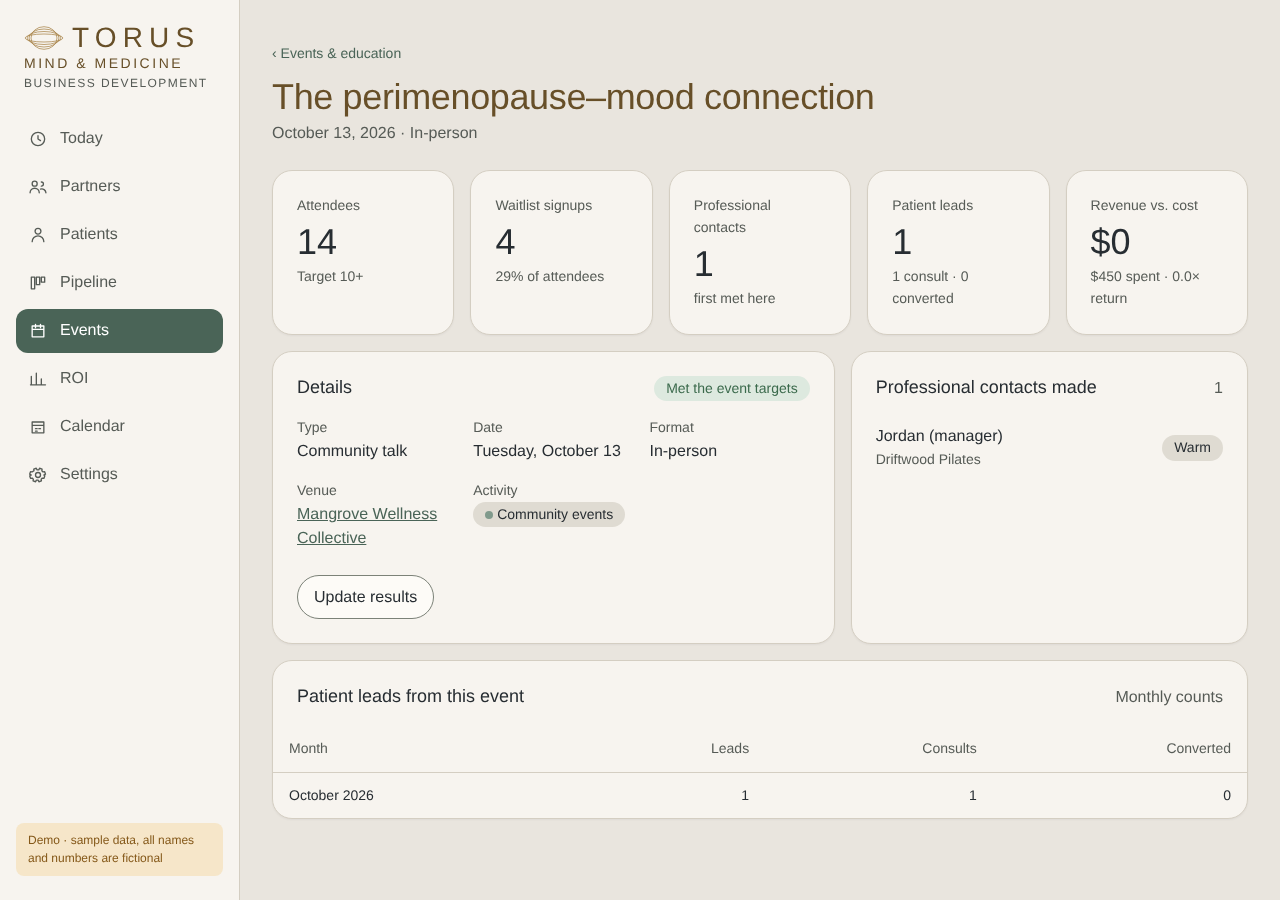
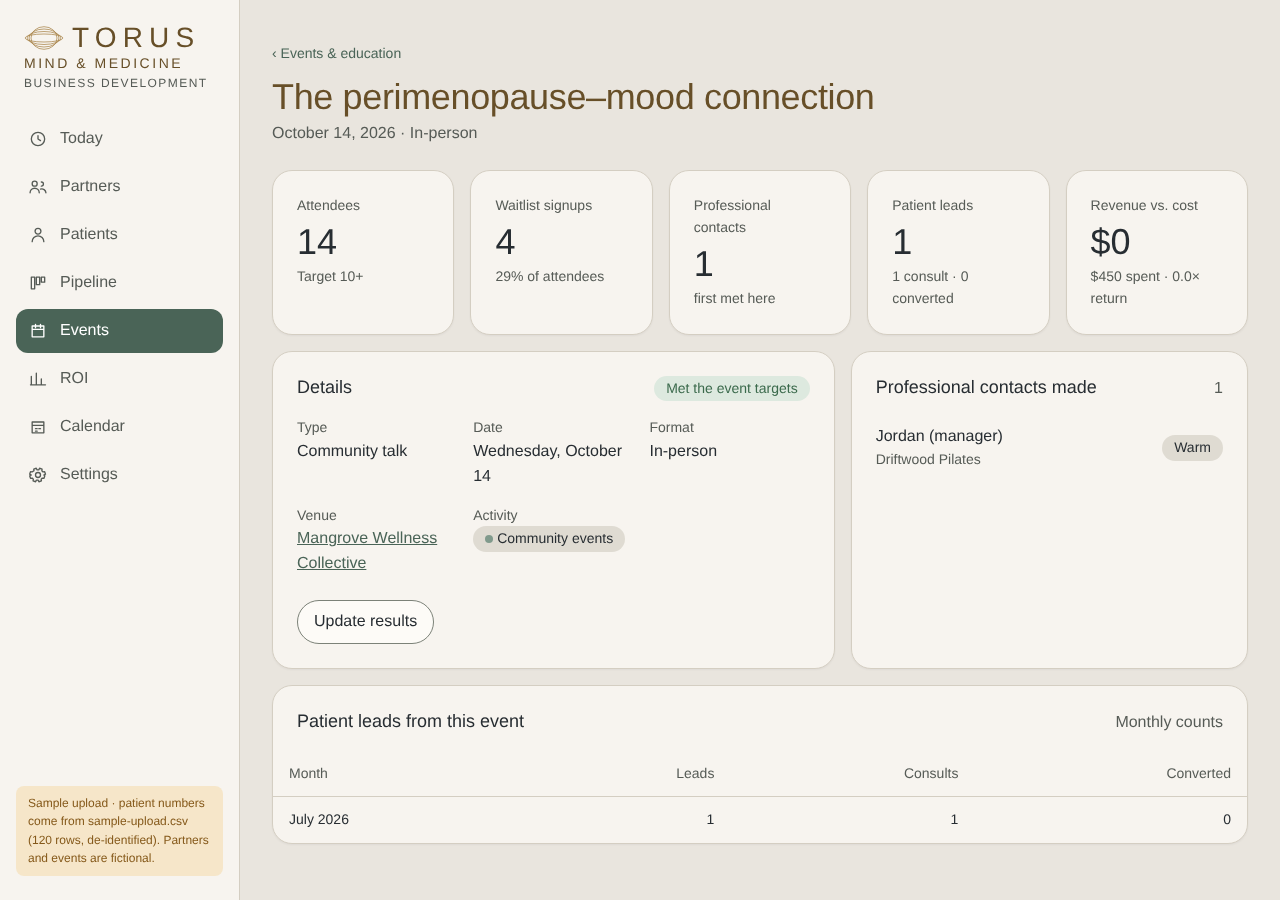
Sample-upload demo branch
Copy of the demo that loads its patient numbers from a de-identified sample
IntakeQ export (dashboard/sample-upload.csv, fictional) through the same import
the team will use. main is unchanged.

- Import: shared column guessing and aggregation; reads a 'Came in via' column,
  month-only dates and yes/no consult columns.
- Sources: Psychology Today, Not recorded; channel: Not recorded.
- Demo config can preload counts or start blank with given partners.
- Tests now serve the app over local HTTP.

Claude-Session: https://claude.ai/code/session_016Broc13AmVu7DcJiKXFPp3

diff --git a/dashboard/app.js b/dashboard/app.js
@@ -34,8 +34,8 @@
     { id: 'D', name: 'Digital / direct', long: 'Digital / direct', color: 'var(--chart-6)' },
   ];
   const act = (id) => ACTIVITIES.find((a) => a.id === id) || ACTIVITIES[5];
-  const SOURCES = ['Provider referral', 'Community event', 'Provider education event', 'Social media', 'Google / organic search', 'Email (Flodesk)', 'Word of mouth', 'Direct walk-in', 'Shari Retreats', 'Shari Yoga', 'Avonny', 'Other'];
-  const CHANNELS = ['Discovery form (website)', 'Phone call', 'Email', 'Provider referral form', 'At an event', 'Walk-in'];
+  const SOURCES = ['Provider referral', 'Community event', 'Provider education event', 'Social media', 'Google / organic search', 'Email (Flodesk)', 'Word of mouth', 'Direct walk-in', 'Shari Retreats', 'Shari Yoga', 'Avonny', 'Psychology Today', 'Other', 'Not recorded'];
+  const CHANNELS = ['Discovery form (website)', 'Phone call', 'Email', 'Provider referral form', 'At an event', 'Walk-in', 'Not recorded'];
   const EVENT_TYPES = ['Lunch-and-learn', 'Webinar', 'Open house', 'Q&A', 'Tea', 'Integration circle', 'Community talk'];
   const TYPES = ['Clinical referrer', 'Hospital colleague', 'Community venue'];
   const OWNERS = ['Kim', 'Shari', 'Annette', 'Stephanie', 'Avonny'];
@@ -300,6 +300,7 @@
       const seg = `<div class="seg" role="group" aria-label="Time range">${[[1, 'This month'], [92, 'Last 3 months'], ['all', 'All time']].map(([v, l]) => `<button data-prange="${v}" aria-pressed="${String(ui.prange) === String(v)}">${l}</button>`).join('')}</div>`;
       const filtered = ui.via || ui.pact;
       return `<section class="kpis" aria-label="Discovery form">${kpi('Discovery form, this month', dfm.leads, `${dfm.consults} became consults`)}${kpi('Discovery form, all time', df.leads, all.leads ? `${pct(df.leads / all.leads)} of all patient leads` : 'No leads yet')}${kpi('Discovery → consult', df.leads ? pct(df.consults / df.leads) : '–', plural(df.consults, 'consult') + ' booked')}${kpi('All patient leads, this month', allm.leads, `${all.leads} all time`)}${kpi('Converted to a package', all.converted, money(all.revenue) + ' revenue')}</section>
+        ${ui.demoInfo ? (ui.demoInfo.error ? `<div class="card" role="alert"><p>Couldn't read ${esc(ui.demoInfo.file)}. Showing sample counts instead.</p></div>` : `<div class="card next"><h2>Loaded from ${esc(ui.demoInfo.file)}</h2><p style="margin-top:var(--space-1)">${plural(ui.demoInfo.patients, 'de-identified row')} → ${plural(ui.demoInfo.rows, 'row')} of monthly counts, ${esc(fmtMonth(ui.demoInfo.months[0]))} to ${esc(fmtMonth(ui.demoInfo.months.at(-1)))}.${ui.demoInfo.unmatched ? ` ${plural(ui.demoInfo.unmatched, 'referrer')} didn't match a partner or event and count as uncredited.` : ''} Same import the team will use each week.${ui.demoInfo.note ? ' ' + esc(ui.demoInfo.note) : ''}</p></div>`) : ''}
         <div class="toolbar">${seg}<span class="muted">Counts only. Patient details stay in IntakeQ.</span></div>
         <section class="card table-wrap" style="padding:0"><div class="card-head" style="padding:var(--space-5) var(--space-5) 0"><h2>How patients came in</h2><span class="muted">The source columns say what drove them</span></div>
           ${withState(ch.filter((x) => x.leads), { msg: 'No patient leads recorded for this period. Import the IntakeQ export or add counts.', btn: 'Import IntakeQ export', act: 'import' }, (items) => `<table class="cards"><thead><tr><th>Came in via</th><th class="right">Leads</th><th class="right">Consults</th><th class="right">Converted</th><th class="right">Lead → consult</th></tr></thead><tbody>${items.map((x) => `<tr><td>${x.c === CHANNELS[0] ? `<b>${esc(x.c)}</b>` : esc(x.c)}</td><td class="right num" data-label="Leads">${x.leads}</td><td class="right num" data-label="Consults">${x.consults}</td><td class="right num" data-label="Converted">${x.converted}</td><td class="right num" data-label="Lead → consult">${x.leads ? pct(x.consults / x.leads) : '–'}</td></tr>`).join('')}</tbody></table>`)}</section>
@@ -478,12 +479,14 @@
   }
   const toISO = (v) => { const s = String(v || '').trim(); let m;
     if ((m = s.match(/^(\d{4})-(\d{1,2})-(\d{1,2})/))) return `${m[1]}-${m[2].padStart(2, '0')}-${m[3].padStart(2, '0')}`;
+    if ((m = s.match(/^(\d{4})-(\d{1,2})$/))) return `${m[1]}-${m[2].padStart(2, '0')}-01`;
+    if ((m = s.match(/^(\d{1,2})\/(\d{4})$/))) return `${m[2]}-${m[1].padStart(2, '0')}-01`;
     if ((m = s.match(/^(\d{1,2})\/(\d{1,2})\/(\d{2,4})/))) return `${m[3].length === 2 ? '20' + m[3] : m[3]}-${m[1].padStart(2, '0')}-${m[2].padStart(2, '0')}`;
     const t = Date.parse(s); return isNaN(t) ? '' : iso(new Date(t)); };
   const norm = (s) => String(s || '').toLowerCase().replace(/[^a-z0-9]+/g, ' ').trim();
   const matchList = (val, list, fallback) => { const v = norm(val); if (!v) return fallback; return list.find((x) => norm(x) === v) || list.find((x) => v.includes(norm(x)) || norm(x).includes(v)) || fallback; };
   const matchSource = (val) => { const v = norm(val); if (!v) return 'Other';
-    const rules = [[/retreat/, 'Shari Retreats'], [/\b(shari|sheri)\b.*yoga|yoga.*\b(shari|sheri)\b/, 'Shari Yoga'], [/\bavonn?e?y\b/, 'Avonny'], [/refer|doctor|physician|provider|therapist/, 'Provider referral'], [/lunch|webinar|education/, 'Provider education event'], [/event|talk|tea|open house|circle|yoga|class/, 'Community event'], [/insta|facebook|social|tiktok|linkedin/, 'Social media'], [/google|search|online|web/, 'Google / organic search'], [/email|newsletter|flodesk/, 'Email (Flodesk)'], [/friend|family|word|mouth/, 'Word of mouth'], [/walk/, 'Direct walk-in']];
+    const rules = [[/retreat/, 'Shari Retreats'], [/\b(shari|sheri)\b.*yoga|yoga.*\b(shari|sheri)\b/, 'Shari Yoga'], [/\bavonn?e?y\b/, 'Avonny'], [/psych(ology)? today/, 'Psychology Today'], [/refer|doctor|physician|provider|therapist/, 'Provider referral'], [/lunch|webinar|education/, 'Provider education event'], [/event|talk|tea|open house|circle|yoga|class/, 'Community event'], [/insta|facebook|social|tiktok|linkedin/, 'Social media'], [/google|search|online|web/, 'Google / organic search'], [/email|newsletter|flodesk/, 'Email (Flodesk)'], [/friend|family|word|mouth/, 'Word of mouth'], [/walk/, 'Direct walk-in']];
     return matchList(val, SOURCES, null) || (rules.find(([re]) => re.test(v)) || [null, 'Other'])[1]; };
   const matchCredit = (val) => { const v = norm(val); if (!v || v.length < 3) return '';
     const hit = DATA.partners.find((p) => [p.contact, p.org].some((x) => norm(x) && (v.includes(norm(x)) || norm(x).includes(v)))) || DATA.events.find((e) => norm(e.name) && (v.includes(norm(e.name)) || norm(e.name).includes(v)));
@@ -499,35 +502,48 @@
       </div>`, true);
   }
   function importMapping(rows) {
-    const head = rows[0].map((h) => h.trim()), guess = (re) => String(head.findIndex((h) => re.test(h.toLowerCase())));
+    const head = rows[0].map((h) => h.trim()), g = guessMap(head), guess = (k) => String(g[k]);
     const sel = (name, label, g, optional = true) => `<label class="field-label">${label}<select class="field" name="${name}">${optional ? '<option value="-1">Not in this file</option>' : ''}${head.map((h, i) => `<option value="${i}"${String(i) === g ? ' selected' : ''}>${esc(h || 'Column ' + (i + 1))}</option>`).join('')}</select></label>`;
     $('[data-import-map]').innerHTML = `<form class="form-grid" data-form="import-map" novalidate><p class="full muted">${plural(rows.length - 1, 'row')} found. Match the columns, then preview the totals.</p>
-      ${sel('date', 'First contact date', guess(/date|created|submitted|added/), false)}
-      ${sel('source', 'How they heard about us', guess(/hear|source|referr(al)? source|how did/))}
-      ${sel('credit', 'Referring provider or event (optional)', guess(/referring|referred by|provider name|event/))}
-      ${sel('consult', 'Consult date (optional)', guess(/consult|appointment|booked/))}
-      ${sel('pkg', 'Package or service (optional)', guess(/package|service|plan/))}
-      <label class="field-label">Came in via<select class="field" name="via">${opts(CHANNELS)}</select></label>
+      ${sel('date', 'First contact date or month', guess('date'), false)}
+      ${sel('source', 'How they heard about us', guess('source'))}
+      ${sel('credit', 'Referring provider or event (optional)', guess('credit'))}
+      ${sel('consult', 'Consult date or booked yes/no (optional)', guess('consult'))}
+      ${sel('pkg', 'Package or service (optional)', guess('pkg'))}
+      ${sel('viaCol', 'Came in via column (optional)', guess('viaCol'))}
+      <label class="field-label">Came in via, when there's no column<select class="field" name="via">${opts(CHANNELS)}</select></label>
       <div class="full top-actions"><button class="btn primary">Preview the totals</button></div></form><div data-import-preview></div>`;
     ui.importRows = rows;
   }
-  function importPreview(map) {
-    const rows = ui.importRows.slice(1), agg = new Map(); let skipped = 0, unmatched = 0;
+  // Shared by the import drawer and the sample-upload demo: column guesses, then rows -> monthly counts.
+  function guessMap(head) {
+    const f = (re, not) => head.findIndex((h) => re.test(h.toLowerCase()) && !(not && not.test(h.toLowerCase())));
+    return { date: Math.max(0, f(/date|created|submitted|added|month/, /consult|birth|dob/)), source: f(/hear|source|how did/), credit: f(/referring|referred by|provider name|event/),
+      consult: f(/consult|appointment|booked/), pkg: f(/package|service|plan/), viaCol: f(/came in via|channel|form|intake type/) };
+  }
+  const YES = /^(y|yes|true|1|booked|x)$/i;
+  function aggregateRows(rows, map) {
+    const agg = new Map(); let skipped = 0, unmatched = 0;
     rows.forEach((r) => {
       const first = toISO(r[map.date]); if (!first) { skipped++; return; }
+      const via = map.viaCol >= 0 ? matchList(r[map.viaCol], CHANNELS, map.via) : map.via;
       const source = map.source >= 0 ? matchSource(r[map.source]) : 'Other';
       const credit = map.credit >= 0 ? matchCredit(r[map.credit]) : ''; if (map.credit >= 0 && String(r[map.credit] || '').trim() && !credit) unmatched++;
       const pkgRaw = map.pkg >= 0 ? String(r[map.pkg] || '').trim() : '', pkg = matchList(pkgRaw, Object.keys(PACKAGES).slice(1), '');
       const conv = !!pkgRaw && !/^(none|no|n\/a|-)$/i.test(pkgRaw);
-      const month = monthOf(first), key = [month, map.via, source, credit].join('|');
-      const c = agg.get(key) || { month, via: map.via, source, credit, leads: 0, consults: 0, converted: 0, revenue: 0 };
-      c.leads++; if (map.consult >= 0 && toISO(r[map.consult])) c.consults++; if (conv) { c.converted++; c.revenue += PACKAGES[pkg] || 0; }
+      const month = monthOf(first), key = [month, via, source, credit].join('|');
+      const c = agg.get(key) || { month, via, source, credit, leads: 0, consults: 0, converted: 0, revenue: 0 };
+      const cv = map.consult >= 0 ? String(r[map.consult] || '').trim() : '';
+      c.leads++; if (cv && (YES.test(cv) || toISO(cv))) c.consults++; if (conv) { c.converted++; c.revenue += PACKAGES[pkg] || 0; }
       agg.set(key, c);
     });
-    const out = [...agg.values()].sort((a, b) => b.month.localeCompare(a.month));
+    return { out: [...agg.values()].sort((a, b) => b.month.localeCompare(a.month)), skipped, unmatched, patients: rows.length - skipped };
+  }
+  function importPreview(map) {
+    const rows = ui.importRows.slice(1), { out, skipped, unmatched } = aggregateRows(rows, map);
     ui.importAgg = out;
-    const months = [...new Set(out.map((c) => c.month))];
-    $('[data-import-preview]').innerHTML = !out.length ? `<div class="state"><p>No rows had a readable date. Check the "First contact date" column.</p></div>` : `<div class="card" style="margin-top:var(--space-4)"><h3>Totals to save</h3><p class="muted" style="margin:var(--space-1) 0 var(--space-3)">${plural(rows.length - skipped, 'patient')} → ${plural(out.length, 'row')} of counts. Saving replaces the existing "${esc(map.via)}" counts for ${months.map((m) => esc(fmtMonth(m))).join(', ')}.${skipped ? ` ${plural(skipped, 'row')} skipped (no date).` : ''}${unmatched ? ` ${plural(unmatched, 'referrer')} didn't match a partner or event and count as uncredited; add them on Partners and re-import.` : ''}</p>
+    const months = [...new Set(out.map((c) => c.month))], vias = [...new Set(out.map((c) => c.via))];
+    $('[data-import-preview]').innerHTML = !out.length ? `<div class="state"><p>No rows had a readable date. Check the "First contact date" column.</p></div>` : `<div class="card" style="margin-top:var(--space-4)"><h3>Totals to save</h3><p class="muted" style="margin:var(--space-1) 0 var(--space-3)">${plural(rows.length - skipped, 'patient')} → ${plural(out.length, 'row')} of counts. Saving replaces the existing ${vias.map((x) => '"' + esc(x) + '"').join(', ')} counts for ${months.map((m) => esc(fmtMonth(m))).join(', ')}.${skipped ? ` ${plural(skipped, 'row')} skipped (no date).` : ''}${unmatched ? ` ${plural(unmatched, 'referrer')} didn't match a partner or event and count as uncredited; add them on Partners and re-import.` : ''}</p>
       <div class="table-wrap"><table class="cards"><thead><tr><th>Month</th><th>Source</th><th>Credited to</th><th class="right">Leads</th><th class="right">Consults</th><th class="right">Converted</th></tr></thead><tbody>${out.map((c) => `<tr><td>${esc(fmtMonth(c.month))}</td><td data-label="Source">${esc(c.source)}</td><td data-label="Credited to">${c.credit ? esc(partner(c.credit)?.org || eventById(c.credit)?.name) : '<span class="muted">–</span>'}</td><td class="right num" data-label="Leads">${c.leads}</td><td class="right num" data-label="Consults">${c.consults}</td><td class="right num" data-label="Converted">${c.converted}</td></tr>`).join('')}</tbody></table></div>
       <div class="top-actions" style="margin-top:var(--space-4)"><button class="btn primary" data-act="import-save">Save ${plural(out.length, 'row')} of counts</button><button class="btn" data-act="close">Cancel</button></div></div>`;
   }
@@ -610,7 +626,7 @@
     e.preventDefault(); const f = e.target, v = Object.fromEntries(new FormData(f)), kind = f.dataset.form, btn = f.querySelector('button.primary');
     const need = (name, msg) => { const el = $('#err-' + name); if (!String(v[name] || '').trim()) { if (el) el.textContent = msg; f[name].focus(); return true; } if (el) el.textContent = ''; return false; };
     if (kind === 'auth') return signIn(f, v);
-    if (kind === 'import-map') { const map = Object.fromEntries(['date', 'source', 'credit', 'consult', 'pkg'].map((k) => [k, +v[k]])); map.via = v.via; return importPreview(map); }
+    if (kind === 'import-map') { const map = Object.fromEntries(['date', 'source', 'credit', 'consult', 'pkg'].map((k) => [k, +v[k]])); map.via = v.via; map.viaCol = +v.viaCol; return importPreview(map); }
     try {
       if (btn) btn.disabled = true;
       if (kind === 'partner') {
@@ -678,12 +694,32 @@
   function footer() {
     $('[data-foot]').innerHTML = LIVE
       ? `<p class="who">${esc(session?.user?.email || '')}</p><button class="btn small" data-act="sign-out">Sign out</button>`
+      : window.TORUS_DEMO?.footer ? `<p class="sample">${esc(window.TORUS_DEMO.footer)}</p>`
+      : ui.demoInfo && !ui.demoInfo.error ? `<p class="sample">Sample upload · patient numbers come from ${esc(ui.demoInfo.file)} (${plural(ui.demoInfo.patients, 'row')}, de-identified). Partners and events are fictional.</p>`
       : '<p class="sample">Demo · sample data, all names and numbers are fictional</p>';
   }
 
   /* ---------------- Boot ---------------- */
   async function boot() {
-    if (!LIVE) { document.body.classList.remove('signed-out'); footer(); route(); return; }
+    if (!LIVE) {
+      document.body.classList.remove('signed-out');
+      const demo = window.TORUS_DEMO;
+      if (demo && demo.blank && !ui.demoInfo) { DATA = EMPTY(); DATA.partners = (demo.partners || []).map((p) => ({ next: '', nextStep: '', metAt: '', phone: '', ...p })); if (demo.openDate) DATA.settings.openDate = demo.openDate; }
+      if (demo && demo.counts && !ui.demoInfo) {
+        DATA.counts = demo.counts.map((c, i) => ({ consults: 0, converted: 0, revenue: 0, credit: '', ...c, id: 'R' + i }));
+        ui.demoInfo = { file: demo.label || 'an IntakeQ export', patients: DATA.counts.reduce((s, c) => s + c.leads, 0), rows: DATA.counts.length, unmatched: 0, months: [...new Set(DATA.counts.map((c) => c.month))].sort(), note: demo.note || '' };
+      }
+      if (demo && demo.csv && !ui.demoInfo) {
+        try {
+          const text = await fetch(demo.csv, { cache: 'no-store' }).then((r) => { if (!r.ok) throw new Error(r.status); return r.text(); });
+          const rows = parseCSV(text), map = { ...guessMap(rows[0].map((h) => h.trim())), via: CHANNELS[0] };
+          const res = aggregateRows(rows.slice(1), map);
+          DATA.counts = res.out.map((c, i) => ({ ...c, id: 'U' + i }));
+          ui.demoInfo = { file: demo.csv, patients: res.patients, rows: res.out.length, unmatched: res.unmatched, months: [...new Set(res.out.map((c) => c.month))].sort() };
+        } catch (err) { console.warn('sample upload failed', err); ui.demoInfo = { error: true, file: demo.csv }; }
+      }
+      footer(); route(); return;
+    }
     try {
       if (!db) await connect();
       if (!session) { footer(); return signInView(); }

diff --git a/dashboard/index.html b/dashboard/index.html
@@ -4,6 +4,7 @@
   <meta charset="utf-8">
   <meta name="viewport" content="width=device-width, initial-scale=1">
   <title>Torus BD Dashboard</title>
+  <link rel="icon" href="data:,">
   <link rel="preconnect" href="https://fonts.googleapis.com">
   <link rel="preconnect" href="https://fonts.gstatic.com" crossorigin>
   <link rel="stylesheet" href="https://fonts.googleapis.com/css2?family=DM+Sans:opsz,wght@9..40,400;9..40,500&family=Jost:wght@300;400&display=swap">

diff --git a/dashboard/config.js b/dashboard/config.js
@@ -1,2 +1,3 @@
 /* Generated at deploy time. DEMO: sample data. */
 window.TORUS_CONFIG = null;
+window.TORUS_DEMO = {"csv":"sample-upload.csv"};

diff --git a/scripts/shoot.py b/scripts/shoot.py
@@ -1,7 +1,12 @@
 import sys, asyncio
 from playwright.async_api import async_playwright
 import os
-base = "file://" + os.path.abspath(os.path.join(os.path.dirname(__file__), "..", "dashboard", "index.html"))
+import threading, functools, http.server
+class _Quiet(http.server.SimpleHTTPRequestHandler):
+    def log_message(self, *a): pass
+_srv = http.server.ThreadingHTTPServer(("127.0.0.1", 0), functools.partial(_Quiet, directory=os.path.abspath(os.path.join(os.path.dirname(__file__), "..", "dashboard"))))
+threading.Thread(target=_srv.serve_forever, daemon=True).start()
+base = f"http://127.0.0.1:{_srv.server_address[1]}/index.html"
 routes = ["today","partners","patients","partner-P-001","pipeline","events","event-E-003","sources","calendar","setup"]
 out = os.path.join(os.path.dirname(__file__), "..", "docs", "screenshots")
 async def main():

diff --git a/scripts/func.py b/scripts/func.py
@@ -1,7 +1,12 @@
 import asyncio
 from playwright.async_api import async_playwright
 import os
-B = "file://" + os.path.abspath(os.path.join(os.path.dirname(__file__), "..", "dashboard", "index.html"))
+import threading, functools, http.server
+class _Quiet(http.server.SimpleHTTPRequestHandler):
+    def log_message(self, *a): pass
+_srv = http.server.ThreadingHTTPServer(("127.0.0.1", 0), functools.partial(_Quiet, directory=os.path.abspath(os.path.join(os.path.dirname(__file__), "..", "dashboard"))))
+threading.Thread(target=_srv.serve_forever, daemon=True).start()
+B = f"http://127.0.0.1:{_srv.server_address[1]}/index.html"
 async def main():
     async with async_playwright() as p:
         b = await p.chromium.launch(executable_path="/usr/bin/google-chrome")
